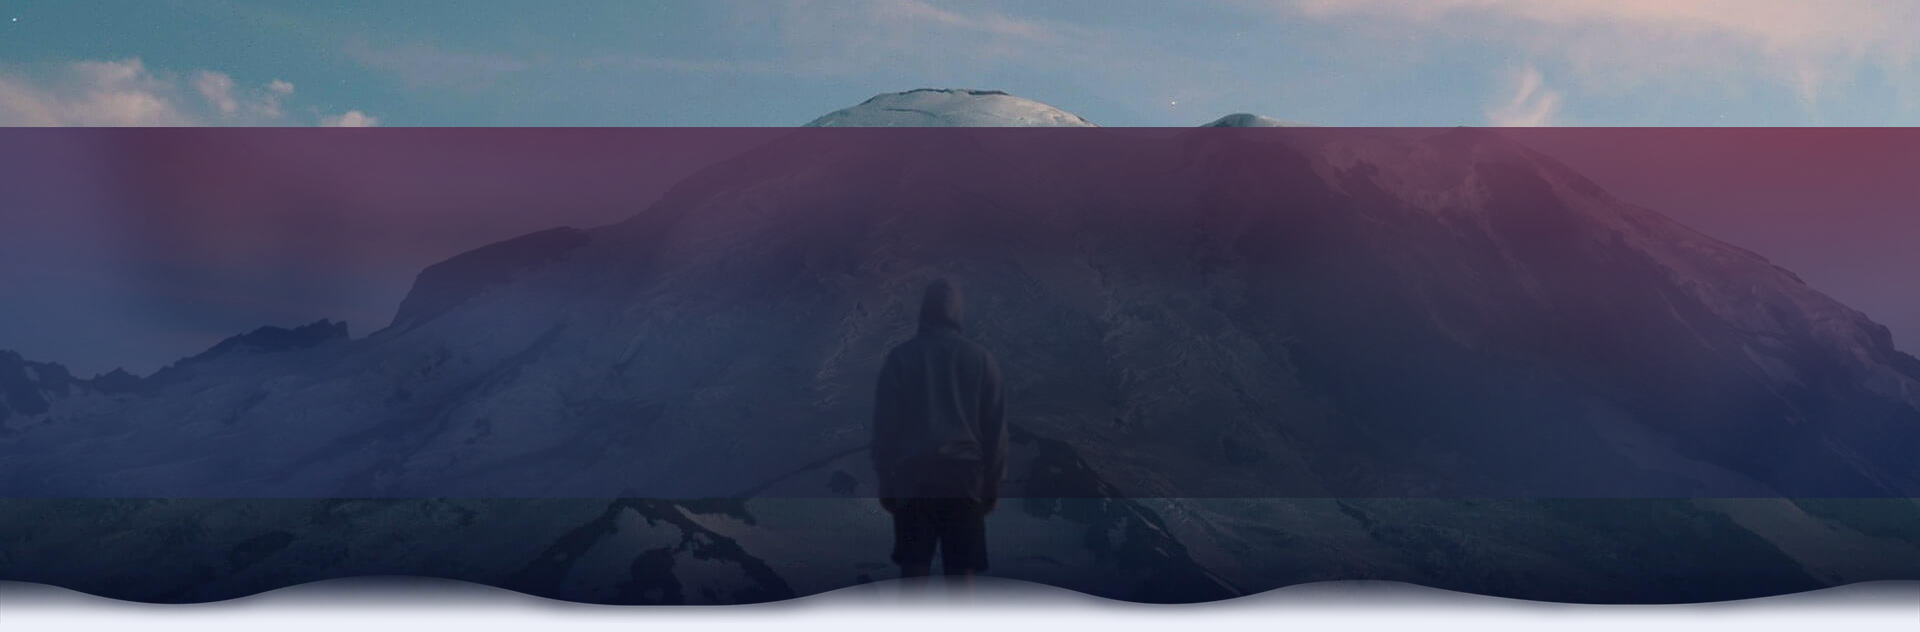
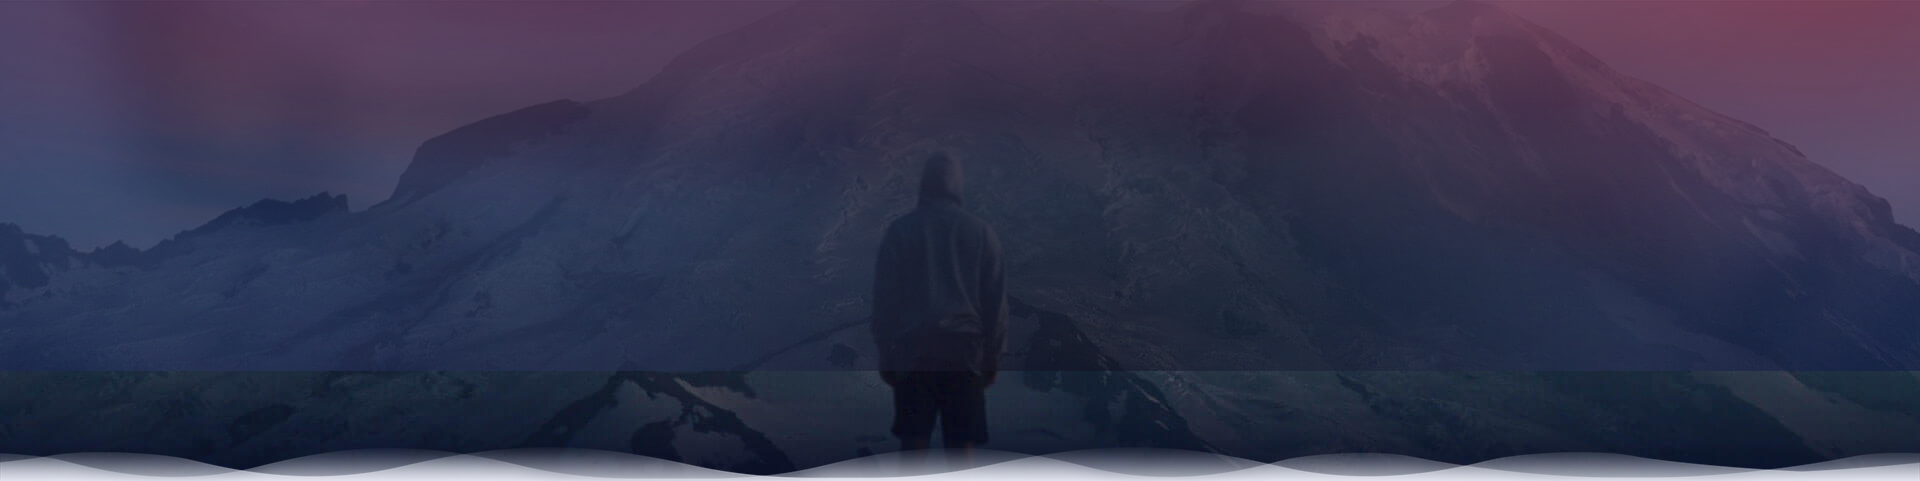
算力

diff --git a/src/components/computational/Transaction.vue b/src/components/computational/Transaction.vue
@@ -15,7 +15,7 @@
         </div>
         <div class="transaction_right">
           <div class="mobile">
-            <span></span>
+            <span><img src="../../assets/images/dian.png"/></span>
             {{n.mobile}}
           </div>
           <button>点击查看完整号码</button>
@@ -45,7 +45,6 @@
       height: 410px;
       background-image: url('../../assets/images/ji.png');
       background-size: 100% 100%;
-      margin-top: 130px;
     }
     .transaction_all{
         width: 1180px;
@@ -79,7 +78,7 @@
           box-shadow: #999 0 0 10px;
           background:white;
           .transaction_left{
-              width: 80%;
+              width: 75%;
               float: left;
               height: 100%;
               padding-top: 20px;
@@ -114,14 +113,42 @@
           }
           .transaction_right{
               text-align: right;
+              float: right;
+              width: 266px;
+              margin-right: 17px;
+              margin-top: 28px;
               .mobile{
                   width: 266px;
                   height: 38px;
                   border:1px solid #dcdcdc;
                   line-height: 38px;
+                  text-align: center;
+                  color: #666;
+                  font-weight: 800;
+                  font-size: 18px;
                   span{
                     display:inline-block;
+                    width: 38px;
+                    height: 100%;
+                    background: #fe5039;
+                    border-right:1px solid #dcdcdc;
+                    float: left;
+                    img{
+                      width: 24px;
+                      height: 24px;
+                      position: relative;
+                      top: -8px;
+                    }
                   }
+              }
+              button{
+                  width: 266px;
+                  height: 38px;
+                  background: #fe5039;
+                  font-size: 16px;
+                  color: white;
+                  border:0;
+                  margin-top: 18px;
               }
           }
       }

diff --git a/src/components/computational/ComInfor.vue b/src/components/computational/ComInfor.vue
@@ -48,7 +48,7 @@
       <h4>
         <p class="title">交易信息</p>
         <p class="text">提供实时二手平台信息</p>
-        <router-link to="#">发布消息</router-link>
+        <router-link to="#"><img src="../../assets/images/fabu.png"/>发布消息</router-link>
       </h4>
       <div class="cominfor_infoleft">
         <p v-for="n,k in infoleft" class="infoleft_p">
@@ -212,14 +212,12 @@
     height: 100%;
     .cominfor_header{
       width: 100%;
-      height: 630px;
+      height: 550px;
       background-image: url('../../assets/images/information.png');
       overflow: hidden;
       background-size: 100% 100%;
       object-fit: cover;
-      position: absolute;
-      top:0;
-      padding-top: 157px;
+      padding-top: 87px;
       .cominfor_headercon{
         width: 1180px;
         margin:0 auto;
@@ -431,11 +429,10 @@
       width: 1180px;
       height: 40px;
       margin:0 auto;
-      margin-top: 640px;
+      margin-top: 30px;
       img{
           width: 146px;
           height: 30px;
-          object-fit: cover;
           float: left;
       }
       .scroll{
@@ -479,6 +476,13 @@
                 float: right;
                 color:#327fff;
                 font-size: 16px;
+                img{
+                    width:16px;
+                    height: 16px;
+                    margin-right: 10px;
+                    position: relative;
+                    top: -3px;
+                }
             }
         }
         .cominfor_infoleft{

diff --git a/src/components/common/Header.vue b/src/components/common/Header.vue
@@ -47,7 +47,7 @@
         // nav: [{name: 'minerShop', text: '矿机商城', link: '/minerShop/list/1/all'}, {name: 'compute', text: '算力转让', link: '/compute/list/1/all'}, {name: 'bdc', text: 'BDC托管', link: '/bdc'}, {name: 'news', text: '产业资讯', link: '/webInfo/list/news'}, {name: 'dataTrade', text: '数据交易', link: ''}, {name: 'computeTrade', text: '算法交易', link: ''}],
         nav: [{name: 'minerShop', text: '矿机商城', link: '/minerShop/list'}, {name: 'bdc', text: 'BDC托管', link: '/bdc'}, {name: 'news', text: '产业资讯', link: '/webInfo/list/news'}],
         // , {name: 'computational', text: '算力资讯', link: '/computational/ComInfor'}
-        path: {frame_header: ['regist', 'passwordRetrieval', 'user', 'account', '/detail', 'webInfo', 'article/agreement', 'minerShop/miner'], border: ['login', 'bdc'], shadow: ['regist', 'passwordRetrieval'], web_box: ['webInfo', 'minerShop/miner']},
+        path: {frame_header: ['regist', 'passwordRetrieval', 'user', 'account', '/detail', 'webInfo', 'article/agreement', 'minerShop/miner', 'computational'], border: ['login', 'bdc'], shadow: ['regist', 'passwordRetrieval'], web_box: ['webInfo', 'minerShop/miner']},
         headerClass: ''
       }
     },

diff --git a/src/components/miner/MinerList.vue b/src/components/miner/MinerList.vue
@@ -106,7 +106,7 @@
   @import '../../assets/fonts/iconfont.css';
   .miner_shop{
     .bg_box{
-      @include bg(1920,650px,#1863f0)
+      @include bg(1920,650px,#070a0f)
       .bg{
         background:url(../../assets/images/miner_shop/miner_list.jpg) no-repeat;
       }
